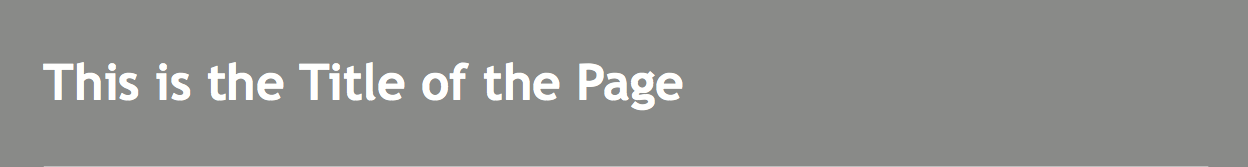
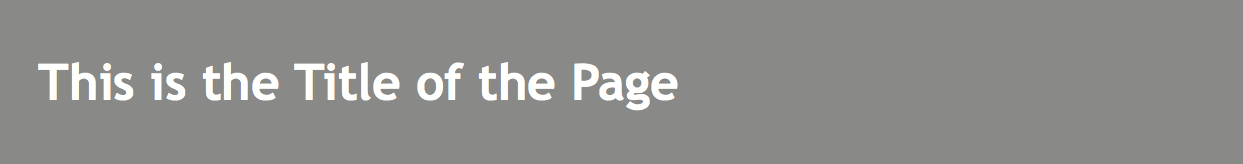
changes to pages

Changed region(s): [[0.0306, 0.3659, 0.5503, 0.6707], [0.0306, 0.9756, 0.9783, 1.0]]

diff --git a/index.html b/index.html
@@ -14,7 +14,7 @@
 
 html, body {
   height: 100%;
-  background-color: #000;
+  background-color: #1b1a1a;
 }
 
 img {
@@ -87,12 +87,12 @@ img {
 }
 
 .text-center{
-padding-left: 30px;
+padding-left: 50px;
 }
 
 body {
   padding-top: 50px;
-  background-color: #fff;
+  background-color: #8a8b89;
  /* body padding for fixed top nav */
 }
 
@@ -104,20 +104,30 @@ body {
 <body>
   <div class="text-center">
 <div class="pull-left">
-<img src="header.png" width="837px" height="225px" >
+  <a href="#openModal1"><img src="header.png" width="837px" height="225px">
+</a>
+<div id="openModal1" class="modalDialog">
+    <div> <a href="#close" title="Close" class="close">X</a>
+    <h2>Exan Logo (Traced in ai exported into PNG)</h2><div class="text-center">
+<img src="Exanlogo.png" width="350px" height="150px">
+
+    </div>
+    </div>
+</div>
 </div>
 
 <a href="http://exangroup.com" target="_blank"><div class="center-block"><img src="button1.png" width="416px" height="102px">
 </div></a>
 
 <div class="center-block">
-<a href="mailto:info@exangroup.com">
+<a href="mailto:info@exangroup.com?subject=Hi there!">
 <img src="button2.png" width="416px" height="109px">
 <div style="clear:both"></div>
 </div></a>
 
+<div class="center-block">
 <a href="#openModal">
-<img src="title.png" width="1254px" height="167px">
+<img src="Title.png" height="167px" width="1254px">
 </a>
 
 <div id="openModal" class="modalDialog">
@@ -128,16 +138,14 @@ body {
 
     </div>
 </div>
+</div>
 <div style="clear:both"></div>
-
 <div class="pull-left">
 <a href="#openModal1"><img src="body.png" width="1254px" height="439px">
 </a>
-
 <div id="openModal1" class="modalDialog">
     <div> <a href="#close" title="Close" class="close">X</a>
-
-          <h2>Exan Logo (Traced in ai exported into PNG)</h2><div class="text-center">
+    <h2>Exan Logo (Traced in ai exported into PNG)</h2><div class="text-center">
 <img src="Exanlogo.png" width="350px" height="150px">
 
     </div>

diff --git a/Assessment1.html b/Assessment1.html
@@ -14,7 +14,7 @@
 
 html, body {
   height: 100%;
-  background-color: #000;
+  background-color: #1b1a1a;
 }
 
 img {
@@ -92,7 +92,7 @@ padding-left: 50px;
 
 body {
   padding-top: 50px;
-  background-color: #fff;
+  background-color: #8a8b89;
  /* body padding for fixed top nav */
 }
 
